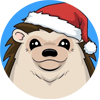
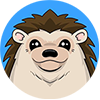
update

Changed region(s): [[0.03, 0.0, 0.99, 0.87]]

diff --git a/index.html b/index.html
@@ -21,7 +21,6 @@
       title="HahaYes &raquo; Comments Feed"
       href="/comments/feed/"
     />
-    <link rel="canonical" href="https://hahayes.co" />
     <meta name="viewport" content="width=device-width, initial-scale=1" />
     <meta name="SKYPE_TOOLBAR" content="SKYPE_TOOLBAR_PARSER_COMPATIBLE" />
     <meta name="theme-color" content="#ffffff" />
@@ -34,7 +33,6 @@
       property="og:description"
       content="Memecoin with the most rizz on Ethereum. Move over dogs, the era of the hedgehog has arrived! Meet RIZO, Elon &amp; The Cutest Animal That Elon Loves!"
     />
-    <meta property="og:url" content="https://hahayes.co" />
     <meta property="og:locale" content="en_US" />
     <meta property="og:site_name" content="HahaYes" />
     <meta property="og:type" content="website" />
@@ -1766,7 +1764,7 @@
                   >
                     <a
                       class="w-nav-anchor level_1 w-btn us-btn-style_4"
-                      href="https://app.uniswap.org/#/swap?inputCurrency=eth&outputCurrency=0xc2f16291769241f1e668a8207215bdcb481a60ab"
+                      href="https://app.uniswap.org/#/swap?inputCurrency=eth&outputCurrency=0xcomingsoon"
                       target="_blank"
                       ><span class="w-nav-title">Buy $RIZO</span
                       ><span class="w-nav-arrow"></span
@@ -1806,7 +1804,7 @@
                     <a
                       target="_blank"
                       rel="nofollow"
-                      href="https://x.com/RIZO_HahaYes"
+                      href="https://x.com/HahaYesRIZO_x"
                       class="w-socials-item-link"
                       aria-label="X"
                       ><span class="w-socials-item-link-hover"></span
@@ -1826,7 +1824,7 @@
                     <a
                       target="_blank"
                       rel="nofollow"
-                      href="https://t.me/RIZO_HahaYes"
+                      href="https://t.me/HahaYesRIZO_eth"
                       class="w-socials-item-link"
                       aria-label="Telegram"
                       ><span class="w-socials-item-link-hover"></span
@@ -1918,7 +1916,7 @@
                       <div class="wpb_text_column us_custom_4fbe0eec">
                         <div class="wpb_wrapper">
                           <div id="contract" class="js-link">
-                            0xc2f16291769241f1e668a8207215bdcb481a60ab
+                            0xcomingsoon
                           </div>
                         </div>
                       </div>
@@ -1983,7 +1981,7 @@
                         <a
                           target="_blank"
                           rel="nofollow"
-                          href="https://www.dextools.io/app/en/ether/pair-explorer/0xc2f16291769241f1e668a8207215bdcb481a60ab"
+                          href="https://www.dextools.io/app/en/ether/pair-explorer/0xcomingsoon"
                           aria-label="dextools"
                           class="w-image-h"
                           ><img
@@ -2000,7 +1998,7 @@
                         <a
                           target="_blank"
                           rel="nofollow"
-                          href="https://dexscreener.com/Ethereum/0xc2f16291769241f1e668a8207215bdcb481a60ab"
+                          href="https://dexscreener.com/Ethereum/0xcomingsoon"
                           aria-label="dexscreener"
                           class="w-image-h"
                           ><img
@@ -2018,7 +2016,7 @@
                           class="w-btn us-btn-style_6"
                           target="_blank"
                           rel="nofollow"
-                          href="https://app.uniswap.org/#/swap?inputCurrency=eth&outputCurrency=0xc2f16291769241f1e668a8207215bdcb481a60ab"
+                          href="https://app.uniswap.org/#/swap?inputCurrency=eth&outputCurrency=0xcomingsoon"
                           ><span class="w-btn-label">Buy $RIZO</span></a
                         >
                       </div>
@@ -2065,24 +2063,6 @@
                             Partnered with Tesla Owners Silicon Valley, the
                             largest official Tesla Community in the World.
                           </p>
-                          <p>
-                            Click
-                            <a
-                              style="color: #00a5ff"
-                              href="https://xtakeover.com/"
-                              target="_blank"
-                              rel="noopener"
-                              >here</a
-                            >
-                            to join us @ Tesla’s
-                            <a
-                              style="color: #00a5ff"
-                              href="https://xtakeover.com/"
-                              target="_blank"
-                              rel="noopener"
-                              >XTakeOver 2025</a
-                            >
-                          </p>
                         </div>
                       </div>
                       <div class="w-image align_center">
@@ -2118,27 +2098,7 @@
         </section>
         <section class="l-section wpb_row height_auto">
             <div style="display: flex; justify-content: center;">
-              <blockquote class="twitter-tweet">
-              <p lang="en" dir="ltr">
-                Elon's RIZO
-                <a
-                  target="_blank"
-                  href="mayemusk/status/2003196862086656052"
-                  >https://t.co/Mw65NJ5kfp</a
-                >
-              </p>
-              RIZO
-              <a
-                target="_blank"
-                href="https://twitter.com/mayemusk/status/2003196862086656052"
-                >December 22, 2025</a
-              >
-            </blockquote>
-            <script
-              async
-              src="https://platform.twitter.com/widgets.js"
-              charset="utf-8"
-            ></script>
+              <blockquote class="twitter-tweet"><p lang="zxx" dir="ltr"><a href="https://t.co/FrWpKzTkjj">https://t.co/FrWpKzTkjj</a></p>&mdash; Tesla (@Tesla) <a href="https://twitter.com/Tesla/status/2043782316850573312?ref_src=twsrc%5Etfw">April 13, 2026</a></blockquote> <script async src="https://platform.twitter.com/widgets.js" charset="utf-8"></script>
           </div>
         </section>
         <section
@@ -2465,7 +2425,7 @@
                           <a
                             target="_blank"
                             rel="nofollow"
-                            href="https://flooz.xyz/trade/0xc2f16291769241f1e668a8207215bdcb481a60ab/solana/hahayes/rizo"
+                            href="https://flooz.xyz/trade/0xcomingsoon/solana/hahayes/rizo"
                             aria-label="Flooz"
                             class="w-image-h"
                             ><img
@@ -3967,7 +3927,7 @@
                                 class="w-btn us-btn-style_6 us_custom_f36a9b56 us_animate_this"
                                 target="_blank"
                                 rel="nofollow"
-                                href="https://app.uniswap.org/#/swap?inputCurrency=eth&outputCurrency=0xc2f16291769241f1e668a8207215bdcb481a60ab"
+                                href="https://app.uniswap.org/#/swap?inputCurrency=eth&outputCurrency=0xcomingsoon"
                                 ><span class="w-btn-label"
                                   >Buy $RIZO</span
                                 ></a
@@ -4958,10 +4918,10 @@
                                 <div class="wpb_wrapper">
                                   <p>
                                     <a
-                                      href="https://solscan.io/token/0xc2f16291769241f1e668a8207215bdcb481a60ab"
+                                      href="https://solscan.io/token/0xcomingsoon"
                                       target="_blank"
                                       rel="noopener"
-                                      >0xc2f16291769241f1e668a8207215bdcb481a60ab</a
+                                      >0xcomingsoon</a
                                     >
                                   </p>
                                 </div>
@@ -5017,7 +4977,7 @@
                   <div class="wpb_wrapper">
                     <div class="w-html iframeHoudini">
                       <iframe
-                        src="https://app.uniswap.org/#/swap?inputCurrency=eth&outputCurrency=0xc2f16291769241f1e668a8207215bdcb481a60ab"
+                        src="https://app.uniswap.org/#/swap?inputCurrency=eth&outputCurrency=0xcomingsoon"
                         style="width: 900px; height: 800px; border-radius: 30px"
                       ></iframe>
                     </div>
@@ -5098,7 +5058,7 @@
                           class="wpb_text_column us_custom_6156c5ce tokenomicsBlock us_animate_this"
                         >
                           <div class="wpb_wrapper">
-                            <p>LP Burned Forever</p>
+                            <p>LP Locked</p>
                           </div>
                         </div>
                         <div
@@ -5127,7 +5087,7 @@
                         <div class="wpb_text_column us_custom_4fbe0eec">
                           <div class="wpb_wrapper">
                             <div id="contract">
-                              0xc2f16291769241f1e668a8207215bdcb481a60ab
+                              0xcomingsoon
                             </div>
                           </div>
                         </div>
@@ -5202,7 +5162,7 @@
                             <a
                               target="_blank"
                               rel="nofollow"
-                              href="https://x.com/RIZO_HahaYes"
+                              href="https://x.com/HahaYesRIZO_x"
                               class="w-socials-item-link"
                               aria-label="X"
                               ><span class="w-socials-item-link-hover"></span
@@ -5225,7 +5185,7 @@
                             <a
                               target="_blank"
                               rel="nofollow"
-                              href="https://t.me/RIZO_HahaYes"
+                              href="https://t.me/HahaYesRIZO_eth"
                               class="w-socials-item-link"
                               aria-label="Telegram"
                               ><span class="w-socials-item-link-hover"></span
@@ -5640,7 +5600,7 @@
                   <div class="wpb_text_column us_custom_4fbe0eec">
                     <div class="wpb_wrapper">
                       <p style="text-align: center">
-                        hahayes 2025, All rights reserved
+                        hahayes 2026, All rights reserved
                       </p>
                     </div>
                   </div>